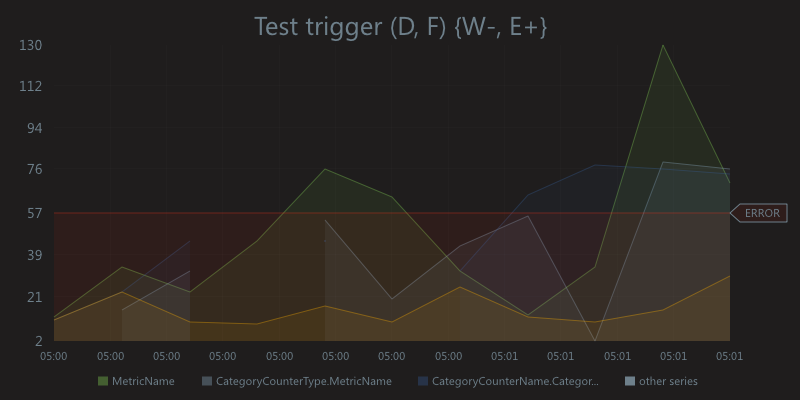
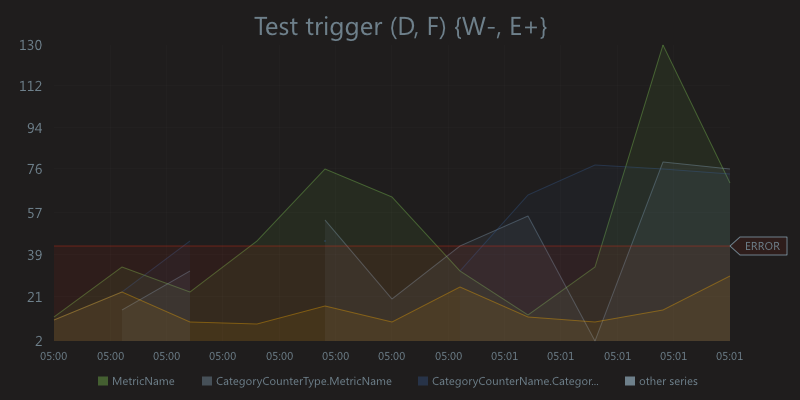
update examples

Changed region(s): [[0.0625, 0.51, 1.0, 0.66]]

diff --git a/plotting/plot_test.go b/plotting/plot_test.go
@@ -29,7 +29,7 @@ const (
 const (
 	plotHashDistanceTestOuterPointIncrement   = float64(10000)
 	plotHashDistanceTestOuterPointMultiplier  = float64(1000)
-	plotHashDistanceTestRisingWarnThreshold   = float64(57)
+	plotHashDistanceTestRisingWarnThreshold   = float64(43)
 	plotHashDistanceTestRisingErrorThreshold  = float64(76)
 	plotHashDistanceTestFallingWarnThreshold  = plotHashDistanceTestRisingErrorThreshold
 	plotHashDistanceTestFallingErrorThreshold = plotHashDistanceTestRisingWarnThreshold
